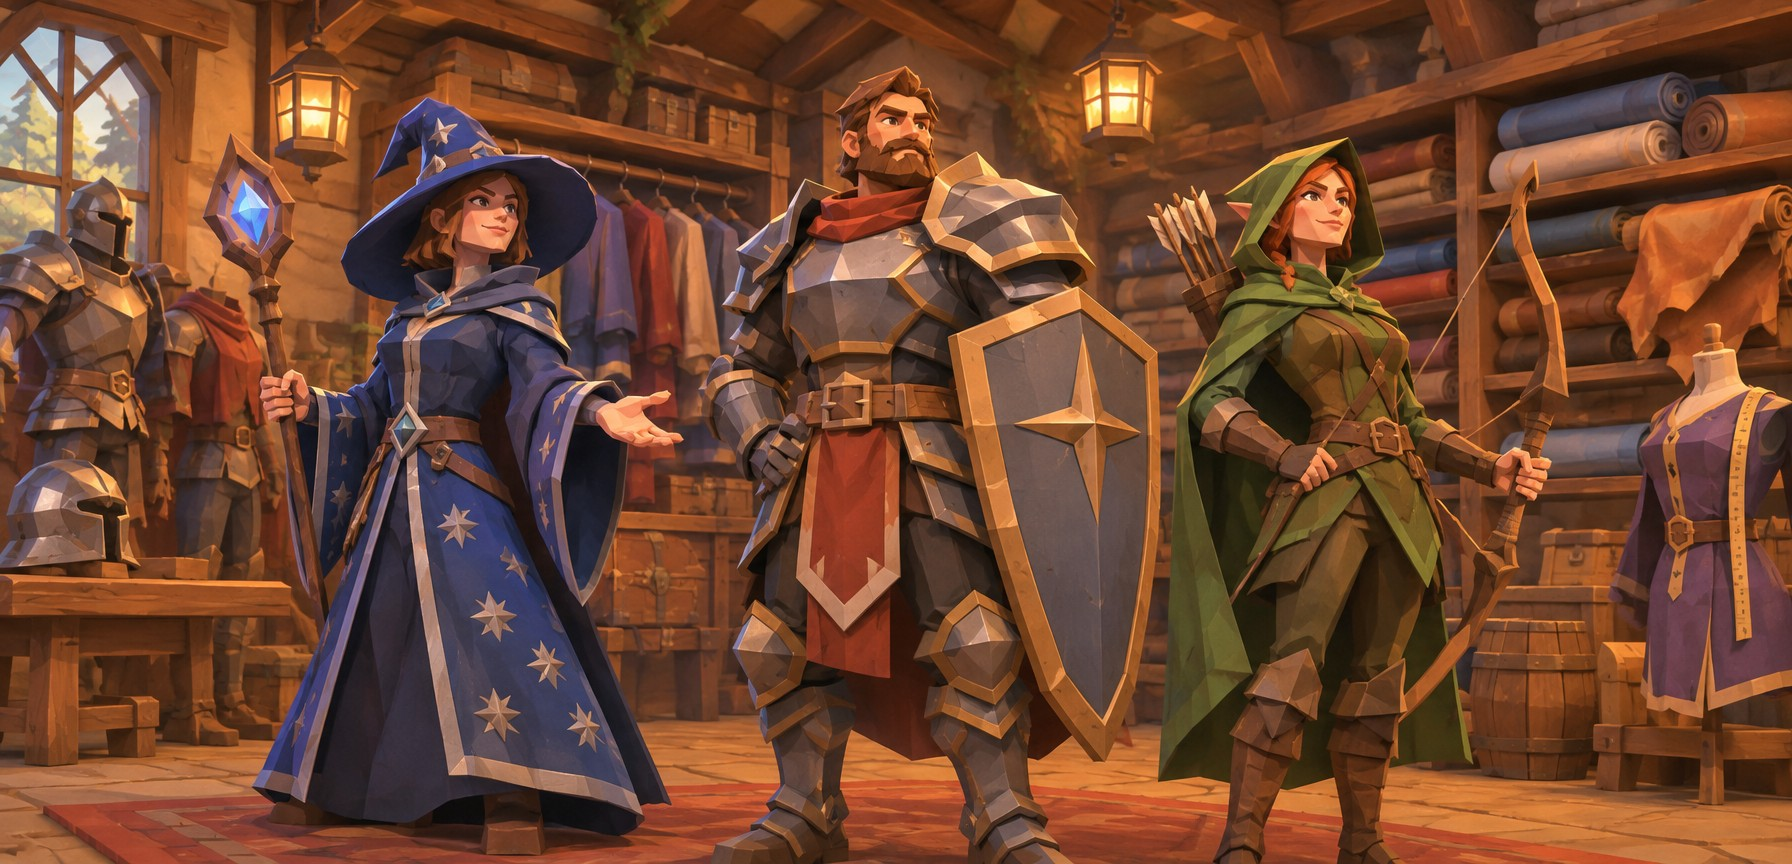
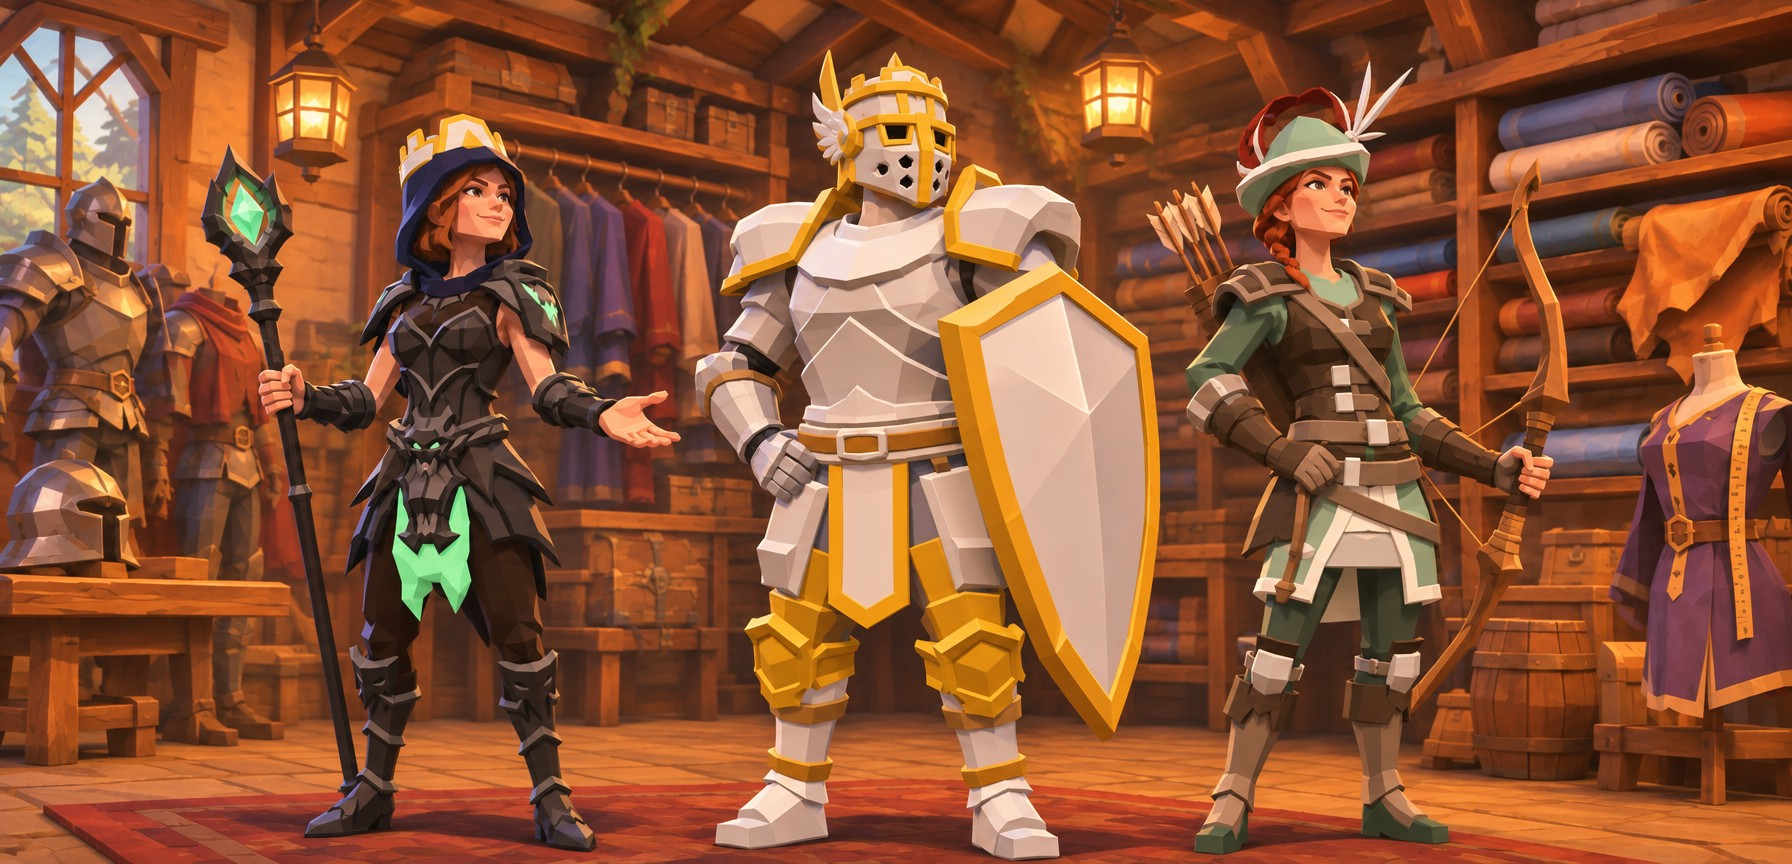
What's new page 8's picture redrawn with the real class gear as a reference (the owner, 2026-11-27): the mage in Starcaller, the tank in Aegis, the ranger in Windrunner, from the website's 3D figure; the shop and poses as before. tools/whatsnew/whatsnew-8-from-gear.cs is the edit.

diff --git a/tools/whatsnew/whatsnew-8-from-gear.cs b/tools/whatsnew/whatsnew-8-from-gear.cs
@@ -1,0 +1,15 @@
+// Redraws whatsnew-8 with the real class gear as a reference (2026-11-27): Temp/ImageGen/whatsnew/ref-class-gear.png is the website 3D figure in
+// Starcaller, Aegis and Windrunner (/dev/gear-preview?wear=<material>&bare=1, the canvas enlarged), side by side; the first draw is the second input.
+var running = ImageGen.Jobs.Where(j => j.Tag == "whatsnew:whatsnew-8b" && j.State == ImageGen.JobState.Running).Count();
+if (running > 0) return "already running";
+if (!ImageGen.HasKey) return "no key";
+var prompt = "Stylized low-poly 3D game art, soft warm lighting, chunky simple shapes, clean flat-shaded polygons, no text, no letters, no user interface, no border. " +
+  "Repaint the second picture (the cozy armorer and tailor's shop, the warm lamp light, the three adventurers posing proudly side by side, the wide composition) " +
+  "but dress the three adventurers exactly in the armor sets of the three characters in the first picture, keeping their shapes and colors: " +
+  "on the left a mage in the black spiked dark armor with glowing mint green accents, a dark blue hood and a small golden crown, holding a staff; " +
+  "in the middle a big tank in white and gold full plate with a winged great helm with a golden visor and golden knee guards, holding a large white and gold shield; " +
+  "on the right a ranger in green and brown leathers with buckled straps and a green feathered cap with red and white feathers, holding a longbow. " +
+  "Keep the shop, the armor stands, the wardrobe, the bolts of cloth and the leather hides of the second picture.";
+var options = new ImageGen.Options { Model = ImageGen.Model.Sunburst, Transparent = false, AutoCutout = false, Quality = "high", Size = "1792x864" };
+ImageGen.Edit(prompt, new[] { "Temp/ImageGen/whatsnew/ref-class-gear.png", "Temp/ImageGen/whatsnew/whatsnew-8.png" }, "Temp/ImageGen/whatsnew/whatsnew-8b.png", options, null, null, "whatsnew:whatsnew-8b");
+return "started";
